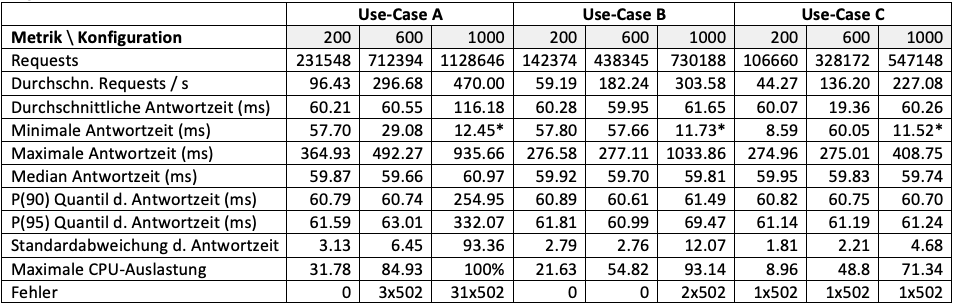
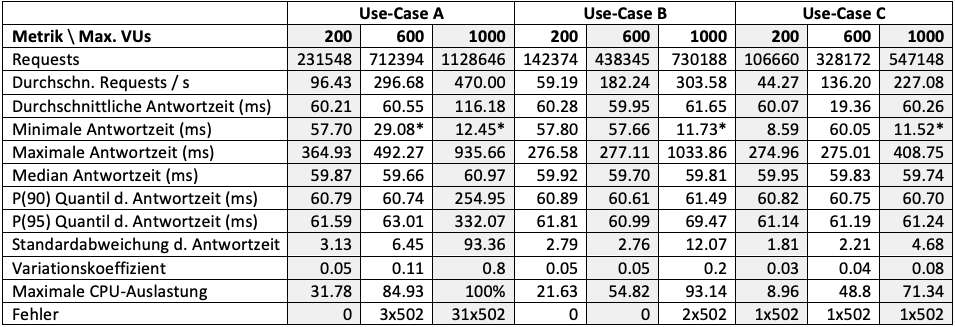
Ende des Tages 08.02

diff --git a/chapters/5_Analyse.tex b/chapters/5_Analyse.tex
@@ -18,7 +18,7 @@ Abbildung \ref{fig:pipe128-comparison} zeigt die Ergebnisse des Tests für die F
 Anhand der Vergleichstabelle lassen sich auch Erkenntnisse über die einzelnen Use-Cases ableiten. Use-Case A setzt sowohl bei der Container- als auch bei der Lambda-Anwendung deutlich mehr Requests in der Sekunde ab als es bei den Use-Cases B und C der Fall ist. Dies liegt an der größeren Think-Time, wie sie bei den Use-Cases mit Benutzer-Eingaben zum Einsatz kommt.
 
 \subsection{Stress-Tests}
-Um RQ1 zu beantworten, muss zunächst die maximale Auslastung eines einzelnen Containers ermittelt werden. Dazu wurden mehrere Stress-Tests durchgeführt. Ein Stress-Test dient dazu, die Grenzen des SUTs herauszufinden. Da Lambda ein von Natur aus automatisch horizontal skalierendes System ist, werden die Test zunächst für die Container-Anwendung durchgeführt und im Anschluss die Lambda-Anwendung mit der gleichen Test-Konfiguration getestet. Dadurch kann das Verhalten der Funktionen bei langsamem Anstieg der Benutzer evaluiert werden. Die Anzahl der VUs wird bei den Stress-Tests wie von Molyneaux\cite{molyneaux_art_2014} empfohlen immer stufenweise erhöht. Das bedeutet, dass nach jedem Ramp-Up (ein linearer Anstieg) eine gleichlange Periode mit einer konstanten Anzahl an Benutzern folgt. Abbildung \ref{fig:stress-vus-example} verdeutlicht dies anhand eines Stress-Tests, bei dem bis zu 600 gleichzeitige Virtuelle Benutzer erstellt werden. In 60 Sekunden Zeitabschnitten werden nach und nach immer 60 Benutzer hinzugefügt. Daraufhin folgt eine weitere 60 Sekunden lange Periode, in der die Anzahl der VUs nicht weiter erhöht wird. Der gesamte Test hat demnach eine Dauer von 40 Minuten. Eine Cooldown-Phase nach den vollen 600 Benutzern wird hier nicht eingelegt, da das Skalierungsverhalten nicht untersucht wird.
+Um RQ1 zu beantworten, muss zunächst die maximale Auslastung eines einzelnen Containers ermittelt werden. Dazu wurden mehrere Stress-Tests durchgeführt. Ein Stress-Test dient dazu, die Grenzen des SUTs herauszufinden. Da Lambda ein von Natur aus automatisch horizontal skalierendes System ist, werden die Test zunächst für die Container-Anwendung durchgeführt und im Anschluss die Lambda-Anwendung mit der gleichen Test-Konfiguration getestet. Die Anzahl der VUs wird bei den Stress-Tests wie von Molyneaux\cite{molyneaux_art_2014} empfohlen immer stufenweise erhöht. Das bedeutet, dass nach jedem Ramp-Up (ein linearer Anstieg) eine gleichlange Periode mit einer konstanten Anzahl an Benutzern folgt. Abbildung \ref{fig:stress-vus-example} verdeutlicht dies anhand eines Stress-Tests, bei dem bis zu 600 gleichzeitige Virtuelle Benutzer erstellt werden. In 60 Sekunden Zeitabschnitten werden nach und nach immer 60 Benutzer hinzugefügt. Daraufhin folgt eine weitere 60 Sekunden lange Periode, in der die Anzahl der VUs nicht weiter erhöht wird. Der gesamte Test hat demnach eine Dauer von 40 Minuten. Eine Cooldown-Phase nach den vollen 600 Benutzern wird hier nicht eingelegt, da das Skalierungsverhalten nicht untersucht wird.
 
 \begin{figure}[H]
     \includegraphics[width=\textwidth]{img/stress-vus-example.png}
@@ -35,7 +35,7 @@ Für die containerisierte Anwendung in der 128MB Konfiguration wurden mehrere St
     \label{fig:fargate128-stress-comparison}
 \end{figure}
 
-Der erste Test wurde mit bis zu 200 Benutzern durchgeführt. Dabei konnte jedoch nur bis zu 32\% der CPU-Auslastung des Container-Clusters erreicht werden; In Use-Case B waren es sogar nur fast 22\%. Der geringen Auslastung entsprechend, war kaum eine Veränderung der Antwortzeiten gegenüber den Pipe-Clean Tests festzustellen (vgl. mit Abbildung \ref{fig:pipe128-comparison}). Einige Metriken lagen sogar unter den Grundwerten. Lediglich die maximale Antwortzeit hat sich bei allen Use-Cases, bspw. bei Use-Case A von 60,46ms auf 364,93ms, deutlich erhöht. Dies ist allerdings nur vereinzelt der Fall, da immer noch 95\% aller Anfragen innerhalb von ca. 62ms beantwortet werden und auch an der Standardabweichung hat sich nicht großartig verändert. 
+Der erste Test wurde mit bis zu 200 Benutzern durchgeführt. Dabei konnte jedoch nur bis zu 32\% der CPU-Auslastung des Container-Clusters erreicht werden; In Use-Case B waren es sogar nur fast 22\%. Der geringen Auslastung entsprechend, war kaum eine Veränderung der Antwortzeiten gegenüber den Pipe-Clean Tests festzustellen (vgl. mit Abbildung \ref{fig:pipe128-comparison}). Einige Metriken lagen sogar unter den Grundwerten. Lediglich die maximale Antwortzeit hat sich bei allen Use-Cases, bspw. bei Use-Case A von 60,46ms auf 364,93ms, deutlich erhöht. Dies ist allerdings nur vereinzelt der Fall, da immer noch 95\% aller Anfragen innerhalb von ca. 62ms beantwortet werden. Der Variationskoeffizient stieg leicht an. 
 
 Bei dem zweiten Stress-Test mit bis zu 600 VUs, änderte sich nicht viel im Vergleich zu dem Test mit 200 Benutzern. Es konnten zwar bis zu 84,93 Prozent CPU-Auslastung erreicht werden und die maximale Antwortzeit stieg erneut an, auf fast 500ms. Trotz dessen konnten von dem einzelnen Container 95\% der Anfragen innerhalb von knapp 63ms beantwortet werden. Problematisch zeigten sich hier drei Requests, die vom Server nicht mehr beantwortet werden konnten und den 502 Fehlercode zurücksendeten. Dies entspricht jedoch nur 0,00042\% aller in diesem Stress-Test durchgeführten Requests.
 
@@ -45,7 +45,7 @@ Bei dem zweiten Stress-Test mit bis zu 600 VUs, änderte sich nicht viel im Verg
     \label{fig:fargate128-stress1000}
 \end{figure}
 
-Der dritte Stress-Test für den 128MB Container wurde mit bis zu 1000 VUs durchgeführt. Abbildung \ref{fig:fargate128-stress1000} zeigt den zeitlichen Verlauf dieses Tests für Use-Case A. Es wird dabei die Anzahl der virtuellen Benutzer und die Antwortzeit im Median pro Sekunde dargestellt. Es wird deutlich, dass die Antwortzeit ab ca. 700 VUs deutlich ansteigt. Dies deckt sich der von AWS Cloudwatch gemessenen CPU-Auslastung von knapp unter 100\% die bei dieser Nutzerzahl gemessen wurde. In den Perioden mit konstanten Nutzerzahlen können die Requests besser verarbeitet werden und die Kurve geht wieder leicht herunter. Während des Tests wurden trotz einer CPU-Auslastung von teilweise 100\% nur 31 HTTP 502 Fehlercodes vom Server ausgelöst, was einer Quote von 0,0027\% entspricht. Die Antwortzeit konnte im Median weiterhin bei etwa 60ms gehalten werden; die durchschnittliche Antwortzeit stieg mit 116,8ms auf fast das doppelte des Grundwertes an.  
+Der dritte Stress-Test für den 128MB Container wurde mit bis zu 1000 VUs durchgeführt. Abbildung \ref{fig:fargate128-stress1000} zeigt den zeitlichen Verlauf dieses Tests für Use-Case A. Es wird dabei die Anzahl der virtuellen Benutzer und die Antwortzeit im Median pro Sekunde dargestellt. Es wird deutlich, dass die Antwortzeit ab ca. 700 VUs deutlich ansteigt. Dies deckt sich der von AWS Cloudwatch gemessenen CPU-Auslastung von knapp unter 100\% die bei dieser Nutzerzahl gemessen wurde. In den Perioden mit Anstieg der VUS steigt auch die Antwortzeit. In jeder Periode mit konstanten Nutzerzahlen können die Requests besser verarbeitet werden und die Kurve geht leicht herunter. Während des Tests wurden trotz einer CPU-Auslastung von teilweise 100\% nur 31 HTTP 502 Fehlercodes vom Server ausgelöst, was einer Quote von 0,0027\% entspricht. Die Antwortzeit konnte im Median weiterhin bei etwa 60ms gehalten werden; die durchschnittliche Antwortzeit stieg mit 116,8ms auf fast das doppelte des Grundwertes an.  
 Bei Use-Case B lag die erreichte Prozessor-Auslastung bei 93,14\%. So wurden keine deutlichen Abweichungen ausgelöst. Die Standardabweichung stieg leicht an, liegt aber immer noch deutlich unter dem Wert des Pipe-Clean Tests der 128MB Lambda Funktion.
 
 \subsubsection{Lambda}
@@ -103,15 +103,16 @@ Für Use-Case B (Abbildung \ref{fig:lambda-ucb-load600-vs-spike600-example}) sie
 Da die Antwortzeiten des Spike-Test trotz des dreimal schnelleren Anstiegs dennoch äußerst nah bei denen des Load-Tests liegen, lässt sich entgegen H1 annehmen, dass ein schneller Spike-Load kaum eine Veränderung der Antwortzeit mit sich bringt. Bei größeren Nutzerzahlen könnte dieser Effekt jedoch größer ausfallen.
 
 
-\section{Andere Konfigurationen}
+\section{Andere Konfigurationen (RQ3)}
 Als nächstes sollen Container und Lambda-Funktionen mit einer CPU- und Speicher-Größe von 256 und 512 Megabyte untersucht werden. Ziel dessen ist es, Unterschiede zu den in der vorangegangenen Sektion getesteten Konfigurationen zu erkennen.
 
 \subsection{Pipe-Clean Tests}
+Für die Pipe-Clean Tests der Container konnte keine Veränderung zur 128MB Variante festgestellt werden. Die Antwortzeit bewegte sich im Median erneut um die 60ms und auch der Variationskoeffizient zeigte mit ca. 0,01 auch kaum eine Veränderung.
 Abbildung \ref{fig:pipe-comparison} zeigt die Pipe-Clean Tests der unterschiedlich großen Konfigurationen der Lambda Funktion für die Use-Cases A und B.
 
 \begin{figure}[H]
     \includegraphics[width=\textwidth]{img/pipe-comparison.png}
-    \caption[Vergleich der Pipe-Clean Tests]{Vergleich der Pipe-Clean Tests}
+    \caption[Vergleich der Pipe-Clean Tests für Lambda]{Vergleich der Pipe-Clean Tests für Lambda}
     \label{fig:pipe-comparison}
 \end{figure}
 
@@ -133,7 +134,7 @@ Auch hier konnte für die Container-Anwendung keine Unterschiede zu der kleinere
     \label{fig:lambda128+256-ucb-load600-vs-spike600-graph}
 \end{figure}
 
-Wie in Abbildung \ref{fig:lambda128+256-ucb-load600-vs-spike600-graph} zu erkennen ist, sind bei der 256MB Variante im Gegensatz zu der 128MB Konfiguration keine wesentliche Unterschiede zwischen den Load- und Spike Tests zu erkennen (Use-Case B abgebildet). Es fällt auf, dass die größeren Funktionen nahezu gar nicht von der Skalierung betroffen sind, sondern die Antwortzeit beständig zwischen 75 und 80ms liegt. Im Vergleich zu der kleineren Variante, verkleinerte sich auch der Variationskoeffizient von 0,22 auf 0,17. Wie schon bei den Pipe-Clean Tests zu sehen war, sank auch die maximale Funktionsdauer von über 600ms bei 128MB auf unter 300ms ab. Bei der Antwortzeit im Median und der Coldstart-Dauer konnte auch hier keine Veränderung festgestellt werden.
+Für die Lambda-Funktionen sind bei der 256MB Variante im Gegensatz zu der 128MB Konfiguration keine wesentliche Unterschiede zwischen den Load- und Spike Tests zu erkennen. Wie in Abbildung \ref{fig:lambda128+256-ucb-load600-vs-spike600-graph} Use-Case B zu erkennen ist, fällt auf, dass die größeren Funktionen nahezu gar nicht von der Skalierung betroffen sind, sondern die Antwortzeit beständig zwischen 75 und 80ms liegt. Im Vergleich zu der kleineren Variante, verkleinerte sich auch der Variationskoeffizient von 0,22 auf 0,17. Wie schon bei den Pipe-Clean Tests zu sehen war, sank auch die maximale Funktionsdauer von über 600ms bei 128MB auf unter 300ms ab. Bei der Antwortzeit im Median und der Coldstart-Dauer konnte auch hier keine Veränderung festgestellt werden.
 
 
 Als nächstes sollen Container und Lambda-Funktionen mit einer CPU- und Speicher-Größe von 512 Megabyte untersucht werden. Ein Stress-Test des Containers mit bis zu 1500 Benutzern, ergab für Use-Case A, dass die Antwortzeit des Containers ab einer VU-Anzahl von ca. 1400 Benutzern deutlich zunimmt. Mit Eintreten der 1400 Benutzer erreichte das Container Cluster ebenso eine CPU-Auslastung von 100 Prozent. Für Use-Case B musste ein weiterer Stress-Test durchgeführt werden, da bei 1500 Benutzern nur eine CPU-Auslastung von 58\% erreicht werden konnte. Der zweite Stress-Test wurde mit bis zu 2400 Benutzern durchgeführt. Bei ca. 2350 VUs wurde die maximale Auslastung des Containers erreicht.
@@ -147,6 +148,17 @@ Im Anschluss an die Stress-Tests des Containers wurden diese mit den gleichen Ko
 \end{figure}
 
 Abbildung \ref{fig:512MB-stress-comparison} zeigt das Ergebnis der Stress-Tests für die Use-Cases A und B. Der Container konnte dabei erneut, trotz Überlastung, geringfügig mehr Requests verarbeiten als die Lambda-Funktionen. Die Antwortzeit der Lambda-Funktionen pendelte sich, wie schon bei der 256MB Funktion, bei ca. 77ms ein. Auch der Variationskoeffizient lag erneut bei 0,17. Auffällig ist die hohe Fehleranzahl von 76 HTTP-502-Statuscodes, die bei der Container-Anwendung für Use-Case B auftraten. Die maximale Funktions-Dauer war im Vergleich mit den Stress-Tests der 256MB Lambda-Funktionen erneut deutlich niedriger.
+
+\section{Mehrere Container (RQ4)}
+Für die Untersuchung inwiefern sich die Anzahl der aktiven Container auf die Performance auswirkt, wurde ein Test mit der Fargate 256MB Task-Definition durchgeführt. Dazu wurden zwei Container-Instanzen gestartet und den gleichen Stress-Tests unterzogen wie die einzelne 512MB Container-Instanz. Abbildung \ref{fig:fargate-512-vs-2x256-stress-comparison} zeigt das Ergebnis des Tests.
+
+\begin{figure}[H]
+    \includegraphics[width=\textwidth]{img/fargate-512-vs-2x256-stress-comparison.png}
+    \caption[Vergleich einer 512MB Instanz mit zwei 256MB Instanzen]{Vergleich einer 512MB Instanz mit zwei 256MB Instanzen}
+    \label{fig:fargate-512-vs-2x256-stress-comparison}
+\end{figure}
+
+In diesem Test wird kein Unterschied in der Performance einer einzelnen 512MB Instanz zu zwei 256MB Instanzen deutlich.
 
 
 \section{Skalierung und Optimierung}
@@ -175,6 +187,7 @@ Es gibt darüber hinaus vielfältige Wege, die Coldstart Zeit einer Lambda-Funkt
 Lambda ist also auch nicht ohne weiteres eine Blaupause für jede beliebige Anwendung. Es lässt sich für jede Funktion eine vor-provisionierte Concurrency, Autoscaling und die Größe der Funktion einstellen. 
 
 \section{Kosten}
+In dieser Sektion sollen die für die Nutzung der in dieser Arbeit getesteten AWS Services anfallenden Kosten untersucht werden.
 
 \subsection{Container}
 Wie schon in der vorherigen Sektion erwähnt gibt es viele verschiedene Wege, Container-Anwendungen in der Public Cloud zu betreiben. Für die Kosten-Schätzung werden deshalb nur der Betrieb der Anwendung mit AWS ECS Fargate-Starttyp und Amazon Elastic Kubernetes Service betrachtet.

diff --git a/chapters/3_RelatedWork.tex b/chapters/3_RelatedWork.tex
@@ -1,12 +1,21 @@
 \chapter{Related Work}
-In diesem Kapitel werde ich verwandte Arbeiten vorstellen.
+In diesem Kapitel werden verwandte Arbeiten vorgestellt.
 
 \section{Literatur}
 Serverless ist allgemein ein noch junges Thema, das erst mit der Einführung von AWS Lambda im Jahre 2014 viel Aufmerksamkeit erfuhr. Es gibt bereits einige Studien zu der Performance von Serverless-Anwendungen, jedoch wurde in den meisten Studien nur Micro-Benchmarks betrachtet, d.h Tests, die nur einen Aspekt untersuchen, bspw. die CPU-Floating-Point Performance und keine realistischen Applikationen untersuchen\cite{scheuner_function-as--service_2020}. Vergleiche mit der Performance von Container-Anwendungen sind nur sehr wenige zu finden. 
-In "`Serverless computing: Design, implementation, and performance"'\cite{mcgrath_serverless_2017} wurden mehrere Tests zur Performanz von Serverless-Funktionen durchgeführt. Unter anderem wurde ein Nebenläufigkeits-Test (concurrency test) vorgestellt, bei dem eine Funktion, die sofort terminiert, von einer linear ansteigenden Anzahl an Clients so oft wie möglich hintereinander aufgerufen. Gemessen wurde dabei die Anzahl der Antworten pro Sekunde (responses per second). Ziel dieses Tests war, die performante Ausführung einer skalierten Funktion zu messen. Das Ergebnis zeigte unterschiedliches Skalierverhalten für diverse Cloud-Anbieter; bei AWS Lambda wurde jedoch ein weitestgehend linearer Anstieg festgestellt. 
+
+McGrath und Brenner untersuchten die Performanz von Serverless-Funktionen durch mehrere verschiedene Tests. Unter anderem wurde ein Nebenläufigkeits-Test (concurrency test) vorgestellt, bei dem eine Funktion, die sofort terminiert, von einer linear ansteigenden Anzahl an Clients so oft wie möglich hintereinander aufgerufen. Gemessen wurde dabei die Anzahl der Antworten pro Sekunde (responses per second). Ziel dieses Tests war, die performante Ausführung einer skalierten Funktion zu messen. Das Ergebnis zeigte unterschiedliches Skalierverhalten für diverse Cloud-Anbieter; bei AWS Lambda wurde ein weitestgehend linearer Anstieg festgestellt. 
 Des Weiteren werden für zukünftige Forschung noch andere die Performanz von Serverless-Funktionen beeinflussende Aspekte genannt, wie die Ausführung mehrerer Funktionen anstatt nur einer einzigen (single function execution), die Code-Größe einer Serverless-Funktion und unterschiedliche CPU-Allokation (in der Studie wurde lediglich 512MB RAM verwendet).
 
-Das Paper "`Serverless computing: Design, implementation, and performance"'\cite{hendrickson_serverless_2017} vergleicht die Performance von AWS Lambda mit der eines in AWS Beanstalk laufendem Docker-Containers. Dazu sendeten die Forscher jeweils 100 RPC-Requests an beide Services, wobei jeder Service eine Laufzeit von 200ms beanspruchte. Die Durchführung des Tests ergab, dass die Antwortzeit bei Lambda mit einem Medianwert von 1,6 Sekunden deutlich vor der von Beanstalk mit bis zu 20 Sekunden liegt. Als Grund dafür wird angeführt, dass Lambda innerhalb von einigen Millisekunden 100 Instanzen auf die der Last verteilt wurde, während bei Beanstalk alle Anfragen von einer einzigen Instanz bearbeitet wurde, obwohl alle Einstellungen getroffen wurden, damit Beanstalk so schnell wie möglich hochskalieren kann. Hier zeigen sich deutlich die automatischen Skalierungsvorteile einer FaaS Applikation. Während es bei Beanstalk 20 verschiedene Einstellungsmöglichkeiten gäbe, übernimmt Lambda dies vollkommen automatisch.
+Hendrickson et al. verglichen in ihrer Arbeit die Performance von AWS Lambda mit der eines in AWS Beanstalk laufendem Docker-Containers\cite{hendrickson_serverless_2017}. Dazu sendeten die Forscher jeweils 100 RPC-Requests an beide Services, wobei jeder Service eine Laufzeit von 200ms beanspruchte. Die Durchführung des Tests ergab, dass die Antwortzeit bei Lambda mit einem Medianwert von 1,6 Sekunden deutlich vor der von Beanstalk mit bis zu 20 Sekunden liegt. Als Grund dafür wird angeführt, dass Lambda innerhalb von einigen Millisekunden 100 Instanzen auf die der Last verteilt wurde, während bei Beanstalk alle Anfragen von einer einzigen Instanz bearbeitet wurde, obwohl alle Einstellungen getroffen wurden, damit Beanstalk so schnell wie möglich hochskalieren kann. Hier zeigen sich deutlich die automatischen Skalierungsvorteile einer FaaS Applikation. Während es bei Beanstalk 20 verschiedene Einstellungsmöglichkeiten gäbe, übernimmt Lambda dies vollkommen automatisch.
 Allerdings wird auch deutlich, dass die Latenz von Lambda Funktionen bei einer normalen Last deutlich über der eines Containers liegt. Mit der gleichen Testumgebung und unter leichter Last, performe Lambda 10 mal schlechter als Beanstalk. Da dieser Test im Jahre 2017 durchgeführt wurde, stimmen diese Ergebnisse aber vermutlich nicht mit den in der Zwischenzeit an Lambda vorgenommenen Performance-Verbesserungen überein.
 
-Das Paper "`Infrastructure cost comparison of running web applications in the cloud using aws lambda and monolithic and microservice architectures"'\cite{villamizar_infrastructure_2016} vergleicht die Performance und infrastrukturellen Kosten einer auf verschiedene Arten deployten Applikation. Die Anwendung wurde als Monolith und als Microservices mit und ohne AWS Lambda betrieben. Dabei zeigte sich,  dass die Kosten für den Betrieb bei einer auf Lambda basierten Microservices Architektur deutlich (mehr als 70 Prozent) geringer ausfallen können, als bei einem Monolith oder wenn die Microservices von den Entwicklern selbst gemanaged werden. Ebenfalls wurde die Performance der verschiedenen Ansätze mittels der Metrik der durchschnittlichen Antwortzeit (average response time - ART) verglichen. Es wurde deutlich, dass Lambda in unterschiedlichen Test-Szenarien nahezu die gleich ART beibehält, was auf dessen Skalierungsmöglichkeiten zurückgeführt wurde. Des Weiteren performte Lambda teilweise besser als die monolithische Architektur und deutlich besser als die selbst-gemanagten Microservices.
+Villamizar et al. verglichen die Performance und infrastrukturellen Kosten einer auf verschiedene Arten deployten Applikation\cite{villamizar_infrastructure_2016}. Die Anwendung wurde als Monolith und als Microservices mit und ohne AWS Lambda betrieben. Dabei zeigte sich,  dass die Kosten für den Betrieb bei einer auf Lambda basierten Microservices Architektur deutlich (mehr als 70 Prozent) geringer ausfallen können, als bei einem Monolith oder wenn die Microservices von den Entwicklern selbst gemanaged werden. Ebenfalls wurde die Performance der verschiedenen Ansätze mittels der Metrik der durchschnittlichen Antwortzeit (average response time - ART) verglichen. Es wurde deutlich, dass Lambda in unterschiedlichen Test-Szenarien nahezu die gleich ART beibehält, was auf dessen Skalierungsmöglichkeiten zurückgeführt wurde. Des Weiteren performte Lambda teilweise besser als die monolithische Architektur und deutlich besser als die selbst-gemanagten Microservices.
+
+Verschiedene Server-Hosting Technologien, darunter auch AWS Lambda und AWS Fargate, wurden 2020 von Jain et al. auf ihre Performanz untersucht. Ähnlich zu dieser Arbeit wurde eine Notiz-Anwendung deployed, allerdings handelte es sich dabei um eine Frontend-Anwendung. Als Test-Metriken wurde sich demnach ausschließlich auf solche beschränkt, die das Rendering der Applikation im Web-Browser des Endbenutzer betreffen, bspw. die Page-Load-Time und Start-Render-Time. Dies steht im Gegensatz zu dieser Arbeit, bei dem ausschließlich Backends miteinander verglichen werden. Die Ergebnisse der Arbeit zeigten dennoch, dass ECS mit Fargate deutlich besser performte als AWS Lambda und sogar als ECS mit Elastic Compute Cloud (EC2). Es wurden jedoch weder Stress-Tests der Anwendungen durchgeführt, noch die Kostenunterschiede untersucht.
+
+\section{Artikel}
+Alex DeBrie untersuchte in einem Artikel von 2019 die Performance von ECS Fargate Containern und der von AWS Lambda\cite{debrie_aws_2019}. Dazu wurde ähnlich wie in dieser Arbeit ein HTTP-Endpunkt deployed und 15.000 Requests an jede Variante gesendet. Die HTTP Endpunkte sendeten dann den Payload des Requests an die Amazon Simple Notification Service (SNS) bevor die Antwort zurückgesendet wurde. Zur Auswertung wurden Percentile der Antwortzeit verwendet. Es zeigte sich, dass die Fargate Container den Lambda Funktionen deutlich in der Performance überlegen waren. Allerdings wurde nur eine einzige Konfiguration für beide Technologien getestet.
+
+\section{Abgrenzung}
+Nach der Betrachtung der Relevanten Arbeiten und Artikel zeigt sich also, dass es bisher noch keine Studie gibt, die die Performanz von Containern und Serverless-Funktionen anhand mehrerer Konfigurationen und mit verschiedenen Performance-Tests evaluiert. Diese Lücke versucht die vorliegende Arbeit zu schließen, indem reproduzierbare Test mit verschiedenen Konfigurationen durchgeführt werden und auch auf die Kosten der beiden Technologien eingegangen wird.

diff --git a/chapters/6_Diskussion.tex b/chapters/6_Diskussion.tex
@@ -1,2 +1,21 @@
 \chapter{Diskussion der Ergebnisse}
 In diesem Kapitel sollen die Ergebnisse aus der vorangegangenen Analyse diskutiert werden.
+
+\section{Beantwortung der Forschungsfrage}
+Im folgenden sollen die in Kapitel 4 vorgestellten Forschungsfragen anhand in der Analyse festgestellter Ergebnisse beantwortet werden.
+
+Um die Anzahl der nebenläufigen Lambda-Funktionen zu ermitteln, die dem maximalen Load eines Containers entsprechen (RQ1), wurden mehrere Stress-Tests durchgeführt. Für die 128MB und 256MB Container-Instanzen konnte für Use-Case A ein maximaler Load von ca. 700 virtuellen Benutzern ermittelt werden. In den anschließenden Load-Tests mit bis zu 600 Benutzern wurde eine Nebenläufigkeit von maximal 69 Funktionen festgestellt. Bei der 512MB Konfiguration wurde eine Grenze von etwa 1.400 parallelen Benutzern ermittelt. Bei den Load-Tests mit 1200 Benutzern konnten bis zu 137 Lambda-Funktionen registriert werden. 
+Für die anderen Use-Cases lag die Request-Rate deutlich unter der von Use-Case A. Das führte darum ebenso zu einer geringeren Nebenläufigkeit mit 60 bzw. 103 bei Use-Case B. 
+Forschungsfrage RQ1 lässt sich also nicht eindeutig beantworten, da sich kein erkennbares Muster abzeichnet und die Zahlen zwischen gleichen Experimenten deutlich abweichen können. Darüber hinaus ist die Nebenläufigkeit von Lambda-Funktionen abhängig von der Laufzeit der Funktion, welche bei diesen Experimenten auf mindestens 50ms beschränkt war und darum in einer anderen Anwendung auch stark variieren könnte. Es lässt sich aber für RQ1 sagen, dass eine einzige Container-Instanz durchaus mehreren Hunderten, evtl. sogar Tausenden Lambda-Funktionen entsprechen kann.
+
+Für die Forschungsfrage RQ2 wurden die beiden Anwendungen Load-Tests mit unterschiedlich schnellem Anstieg der Benutzerzahlen unterzogen. Es wurde vermutet, dass die Performance unter schnellem Anstieg bei beiden Systemen evtl. schlechter als die bei langsamen Anstieg wäre. Für die Performance des Containers konnte in den Experimenten keine Veränderung festgestellt werden. Bei den Lambda-Funktionen zeigte sich ein differenziertes Bild. Die Spike-Tests der 128MB Variante lösten einen verzögerten Anstieg der Antwortzeiten aus, welche bei Use-Case A noch ähnlich denen des Load-Tests, bei Use-Case B jedoch deutlich über denen des Load-Tests lagen. Bei den 256MB und 512MB Funktionen konnte jedoch überhaupt kein Unterschied zwischen schnellem und langsamen Unterschied festgestellt werden. 
+
+Die Forschungsfrage RQ3 befasste sich mit der Nutzung größerer RAM und CPU-Werten für sowohl die Container-Anwendung als auch die Lambda-Funktionen. Vermutet wurde, dass bei einer Verdopplung der Container-CPU auch doppelt so viele Anfragen verarbeitet werden können. Dies konnte teilweise bestätigt werden. Bei einem Wechsel von 128MB auf 256MB konnte keine Veränderung der maximalen Benutzerzahlen festgestellt werden. Beide Container konnten für Use-Case A etwa 700 Benutzer bedienen, bevor die Antwortzeiten anstiegen. Vermutlich hängt dies damit zusammen, dass beide die gleichen Task-Gruppe von 512MB RAM und 0,25 vCPU zugewiesen bekamen. Dies war jedoch nötig, da AWS Fargate keine geringere Task-Gruppierung mit bspw. 128MB RAM und 0,125 vCPU zur Verfügung stellt. Um dieses Problem auszugleichen wurden beiden Containern harte Limits für CPU und RAM gesetzt. Es wird vermutet, dass die Limits ignoriert wurden und deshalb beide Zugang zu 0,25 vCPU hatten. Im Gegensatz dazu konnte beim Wechsel von 256MB auf 512MB die Hypothese (H2) bestätigt werden. Während der 256MB Container bei Use-Case A noch ein Limit von ca. 700 VUs hatte, konnten beim 512MB Container (mit 0,5 vCPU) in etwa 1400 VUs, also in etwa doppelt so viele Benutzer vor Steigen der Antwortzeit bedient werden. Daher kann die Hypothese teilweise bestätigt werden.
+
+Für die Forschungsfrage RQ4 wurde die Performance von mehreren Container-Instanzen zu der von einzelnen Containern in Beziehung gestellt. Die Hypothese H3 war, dass die Anzahl der möglichen Requests mit jeder hinzugefügten Instanz linear ansteigt. Dies konnte mit Stress-Tests von zwei 256MB Instanzen und einer 512MB Instanz gezeigt werden. Die Hypothese kann also bestätigt werden.
+
+Die letzte Hypothese war, dass sich ein Use-Case mit mehreren Endpunkten aufgrund der vermehrten Coldstarts negativ auf die Antwortzeiten der Lambda-Anwendung auswirkt. Wie erwartet konnte bei der Container-Anwendung keine Veränderung festgestellt werden.  Insbesondere bei den Stress-Tests wurde deutlich, dass die Unterschiede nicht so groß sind wie erwartet.
+
+Allgemein ist in den Experimenten deutlich geworden, dass die Performance der Container-Anwendung die der Lambda-Funktionen übertrifft. Die Antwortzeit lag im Median bei fast allen Tests bei ca. 60ms. Nur wenn die CPU-Auslastung eines Container an die 100 Prozent erreichte, stiegen die Response-Times an. Dagegen lagen die Werte der Lambda-Funktionen bspw. bei den Pipe-Clean Tests um den Wert 100ms. Allerdings konnte die Performance von Lambda mit einer größerer Anzahl an Requests verbessert werden. Bei den Load- und Stress-Tests konnte so mediane Antwortzeiten von 76ms erreicht werden. Die kleinste Request-Dauer überhaupt lag bei Lambda, Fehler ausgenommen, bei 69,99ms. Größere Ausreißer gab es bei beiden Technologien. Meist wurden diese durch Fehler verursacht. Während bei Fargate ausschließlich HTTP 502 (Bad Gateway) auftritt, ist bei Lambda eine Mischung aus HTTP 500 (Internal Server Error) und HTTP 504 (Gateway Timeout) vorzufinden. Ähnlich zu den verlängerten Antwortzeiten sind die Fehler bei Fargate aber meistens nur bei hoher CPU-Auslastung ausgelöst worden. Bei Lambda ist eine solche Auslastung allerdings nicht möglich. Es ist daher sicher anzunehmen, dass diese Fehler durch das API Gateway verursacht wurden und nichts mit den eigentlichen Funktionen zu tun haben. Generell traten aber bei beiden Services wenige Fehler auf. Die Fehler von Lambda sind allerdings mit einer Request-Dauer von bis zu 30 Sekunden als verheerender einzustufen.
+
+Auch in der Varianz der Antwortzeit zeigen sich große Unterschiede der Technologien. Die Fargate Container zeigten schon in den Pipe-Clean Tests eine geringe Abweichung vom Mittelwert. Bei allen Konfigurationen und für alle Use-Cases betrug der Variationskoeffizient ca. 0,01. Bei den Lambda-Funktionen zeigte sich ein anderes Bild. Hier hatte sowohl die Funktionsgröße als auch der Use-Case einen Einfluss auf die Ergebnisse. In den Pipe-Clean Tests zeigte sich, dass Use-Case A einen Variationskoeffizient von ca. 0,23 bis 0,29 aufweist, während er bei Use-Case B zwischen 0,45 bis 0,52 schwankt. Während in den Pipe-Clean Tests keine Unterschiede zwischen den unterschiedlichen Funktions-Konfigurationen auffielen, zeigte sich ein anderes Bild bei den Stress- und Load-Tests. Die 128MB Variante zeigte 

diff --git a/chapters/4_Konzeption.tex b/chapters/4_Konzeption.tex
@@ -1,9 +1,9 @@
 \chapter{Konzeption}
-In diesem Kapitel werde ich die grundlegende Konzeption der Arbeit vorstellen.
+In diesem Kapitel wird die grundlegende Konzeption der Arbeit vorgestellt.
 
 \section{Methodisches Vorgehen}
 Es soll eine Beispielanwendung sowohl Containerisiert als auch Serverless entwickelt werden. Die Konzeption dieser beiden Anwendungen wird in den folgenden Abschnitten genauer beschrieben. 
-Im Anschluss werden Performance Tests gegen beide Anwendungen durchgeführt und die Ergebnisse miteinander verglichen. Die Forschungsfrage wurde dazu in kleinere Teilfragen aufgeteilt, die im Laufe der Analyse untersucht werden sollen:
+Im Anschluss werden Performance Tests gegen beide Anwendungen durchgeführt und die Ergebnisse miteinander verglichen. Die Forschungsfrage wurde dazu in kleinere Teilfragen (Research-Questions RQ1 bis RQ5) aufgeteilt, die im Laufe der Analyse untersucht werden sollen:
 
 \begin{enumerate}
     \item[RQ1] Wie vielen nebenläufige Lambda-Funktionen werden benötigt, um den maximalen Load einer einzigen Container-Instanz zu tragen?
@@ -62,9 +62,9 @@ Abbildung \ref{fig:serverless-testing-architektur} zeigt das Setup der mit der S
     \label{fig:serverless-testing-architektur}
 \end{figure}
 
-Der von Serverless bzw. CloudFormation erstellte Anwendungs-Stack beinhaltet ein Amazon API-Gateway, das über die Routen der REST-Schnittstelle verfügt. Trifft eine HTTP-Anfrage an eine der Routen ein, übernimmt das API-Gateway die Auslösung des passenden Events, wodurch der Lambda-Service die korrekte Lambda-Funktion startet und mit den vom Benutzer im HTTP-Request übergebenen Parametern aufruft. Nach Beendigung der Funktion wird ihr Rückgabewert über das API-Gateway zurück an den Benutzer gesendet.
+Der von Serverless bzw. CloudFormation erstellte Anwendungs-Stack beinhaltet ein Amazon API-Gateway, das über die Routen der REST-Schnittstelle verfügt. Trifft eine HTTP-Anfrage an eine der Routen ein, übernimmt das API-Gateway die Auslösung des passenden Events, wodurch der Lambda-Service die korrekte Lambda-Funktion startet und mit den vom Benutzer im HTTP-Request übergebenen Parametern aufruft. Nach Beendigung der Funktion wird ihr Rückgabewert über das API-Gateway zurück an den Benutzer gesendet. Jeder Start einer Lambda-Funktion erfordert das Herunterladen des Codes, der in der Funktion ausgeführt werden soll. Dazu wird der Code vom Serverless-Framework in einen Amazon S3-Bucket hochgeladen und bei Bedarf vom Lambda-Service angefordert.
 
-Durch die Nutzung des Frameworks wird die Erstellung der Anwendung vereinfacht. Denn auch wenn man sich zwar nicht mehr um Server kümmern muss, ist dennoch die Konfiguration des API-Gateways notwendig, da Lambda Funktionen nur über ein Auslöse-Event gestartet werden können. Zusätzlich minimiert das Framework den geschriebenen JavaScript Code mittels Webpack und erhöht so die Performance der Lambda-Funktion.
+Durch die Nutzung des Frameworks wird die Erstellung der Anwendung vereinfacht. Die Konfiguration des API-Gateways und des S3-Buckets werden automatisch erledigt. Zusätzlich minimiert das Framework den geschriebenen JavaScript Code mittels Webpack und erhöht so die Performance der Lambda-Funktion.
 
 \subsection{Container}
 Für die Entwicklung der containerisierten Anwendung wird das Express Framework verwendet, das mit über 51.000 Github-Stars eines der meist verwendeten Web-Frameworks für Node.js ist. Die Anwendung wird unter Nutzung der Docker-Engine mittels einer Dockerfile in ein Container-Image gebaut. Dieses Image wird in der AWS Elastic Container Registry (ECR) gespeichert, um es von dort aus weiter zu verwenden. 
@@ -87,6 +87,8 @@ Um die Performance der eben vorgestellten Anwendungen zu testen, wird das Open-S
 
 Als Load-Generator wird eine in der AWS Region Paris (eu-west-3) stationierte EC2 Instanz des Typs t3.xlarge verwendet.
 Nach eigenen Angaben benötigt k6 für jeden virtuellen Benutzer und für einen kleinen Test eine Speicherauslastung zwischen 1 und 5 Megabyte\cite{noauthor_running_nodate}. Da die verwendete t3.xlarge Instanz 16 Gigabyte RAM beinhaltet, sollten theoretisch mehr als 3200 und maximal 16.000 gleichzeitige virtuelle Benutzer von der Testumgebung unterstützt werden. Die Instanz weist eine Netzwerkleistung von bis zu 5 Gbit/s auf, welche bei jeder Testausführung mittels des Tools iftop überwacht wird, um sicherzugehen, dass das Netzwerk nicht zum Flaschenhals wird. Auch die CPU Auslastung wird mittels htop überprüft.
+
+Die Tests werden ausgeführt, indem vom Entwicklungscomputer eine SSH Verbindung zum Load-Generator aufgebaut wird. Dann wird der Test-Code über das GitHub-Repository heruntergeladen. Zur Ausführung der Tests und automatisch komprimierter Speicherung der Test-Artefakte im Repository wurde ein Node.js Skript geschrieben, welches unter "`test.js"' zu finden ist. Das Skript liest von der Kommandozeile die Parameter des aktuellen Tests ein und startet dann k6 mit dem vom Benutzer ausgewählten Test-Szenario.
 
 \subsection{Metriken}
 Das Testing-Tool k6 speichert für jeden Request an einen bestimmten API-Endpunkt unter anderem Werte folgender Metriken:

diff --git a/hdathesis-config.tex b/hdathesis-config.tex
@@ -8,7 +8,7 @@
 % 1. Personal data and user ad-hoc commands
 % ****************************************************************************************************
 \newcommand{\myTitle}{Performance Vergleich zwischen Containerized Deployments und Serverless Functions\xspace}
-%\newcommand{\mySubtitle}{An Homage to The Elements of Typographic Style\xspace}
+\newcommand{\mySubtitle}{Eine empirische Analyse eines REST-Backends auf AWS Lambda und AWS Fargate \xspace}
 \newcommand{\myDegree}{Bachelor of Science (B.Sc.)\xspace} 
 %\newcommand{\myDegree}{Bachelor of Arts (B.A.)\xspace}
 %\newcommand{\myDegree}{Master of Science (M.Sc.)\xspace}

diff --git a/chapters/2_Grundlagen.tex b/chapters/2_Grundlagen.tex
@@ -1,5 +1,5 @@
 \chapter{Grundlagen}
-In diesem Kapitel erkläre ich grundlegende Begriffe, die für das Verständnis der Arbeit unabdingbar sind.
+In diesem Kapitel werden grundlegende Begriffe erklärt, die für das Verständnis der Arbeit unabdingbar sind.
 
 \section{Cloud Computing}
 Laut der Definition des National Institute of Standards and Technology (NIST), ist Cloud Computing ein Modell, dass einen einfachen on-demand Zugriff auf eine Menge von EDV Ressourcen ermöglicht, welche schnell und ohne Interaktion eines Service Providers bereitgestellt oder freigegeben werden können\cite{mell_nist_2011}.

diff --git a/chapters/7_Fazit.tex b/chapters/7_Fazit.tex
@@ -1,0 +1,2 @@
+\chapter{Fazit}
+Im Rahmen dieser Bachelor-Thesis wurden Serverless-Funktionen mit AWS Lambda und Container-Anwendungen am Beispiel von AWS ECS mit Fargate auf ihre Performance untersucht und Kosten und Skalierungsverhalten analysiert. 

diff --git a/thesis.tex b/thesis.tex
@@ -107,6 +107,7 @@
 \include{chapters/4_Konzeption}
 \include{chapters/5_Analyse}
 \include{chapters/6_Diskussion}
+\include{chapters/7_Fazit}
 
 %*************************************************************************
 % Backmatter
